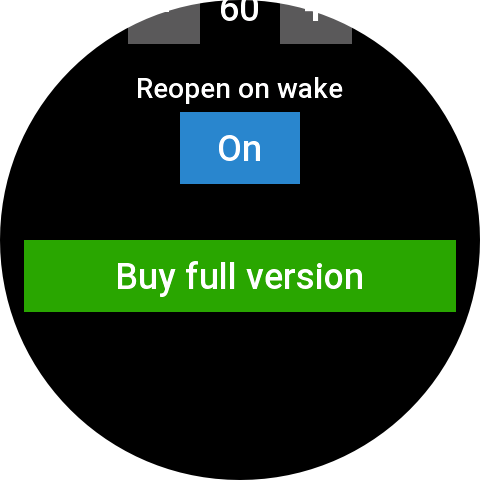
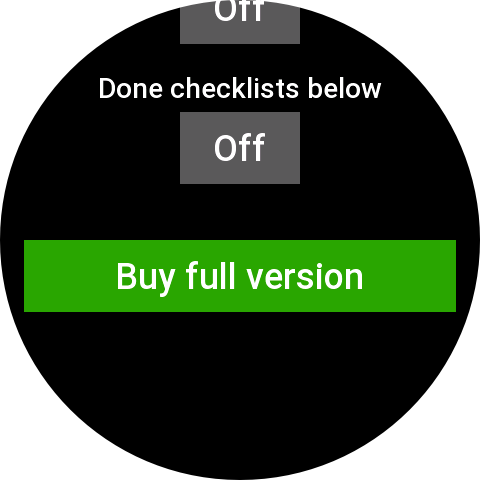
README update

diff --git a/README.md b/README.md
@@ -39,10 +39,11 @@ Typical uses:
 |------|------------------|-------|
 | Create, rename, delete checklists | ✓ | |
 | Add, edit, delete, reorder items | ✓ | |
+| Export / import checklists (JSON or CSV) | ✓ | |
 | Reorder checklists | ✓ | |
 | Check / uncheck items | | ✓ |
 | Reset all items in a list | | ✓ |
-| Adjust row height, reopen-on-wake | | ✓ |
+| Adjust row height, reopen-on-wake, done-items / done-checklists below | | ✓ |
 | Keep screen on while packing | | ✓ |
 | See recently used checklists on a widget | | ✓ (supported devices) |
 
@@ -64,7 +65,8 @@ On first install, the app includes two **sample checklists** (*Swimming pool* an
 
 The phone side is where you **build and maintain** your checklists. Open it from the Zepp app while your watch is paired.
 
-<img src="docs/screenshots/02-phone-settings-overview.jpg" alt="Phone settings — checklist editor" width="320" />
+<img src="docs/screenshots/02-phone-settings-overview-top.jpg" alt="Phone settings — checklist editor" width="320" />
+<img src="docs/screenshots/02-phone-settings-overview-bottom.jpg" alt="Phone settings — checklist editor" width="320" />
 
 ### Checklists
 
@@ -81,6 +83,45 @@ The phone side is where you **build and maintain** your checklists. Open it from
 - **Delete an item** — tap the **🗑** button; confirm or cancel.
 - **Reorder items** — use **↑** / **↓** (shown when a list has two or more items).
 - **Duplicate item names** within the same checklist are not allowed.
+
+### Backup (export / import)
+
+Use the format selector next to **Export** / **Import** to choose **JSON** or **CSV** (JSON is selected by default). Export and import always use the selected format. Backups contain checklist and item **names only** — checked/unchecked state lives on the watch and is not included.
+
+- **Export** — opens a backup of all checklists; select all, copy, and save it somewhere safe.
+- **Import** — paste a previously saved backup and tap **OK**. Existing checklists/items are merged (duplicates are skipped; new lists and items are added).
+
+**JSON** example:
+
+```json
+[
+  {
+    "name": "Swimming pool",
+    "values": [
+      { "name": "Swimsuit" },
+      { "name": "Towel" },
+      { "name": "Goggles" }
+    ]
+  },
+  {
+    "name": "Bike ride",
+    "values": [
+      { "name": "Helmet" },
+      { "name": "Water bottle" },
+      { "name": "Snacks" }
+    ]
+  }
+]
+```
+
+**CSV** — one line per checklist, no header. First field is the checklist name; the rest are items:
+
+```csv
+Swimming pool, Swimsuit, Towel, Goggles
+Bike ride, Helmet, Water bottle, Snacks
+```
+
+CSV is handy for creating lists by hand (e.g. in a notes app) and importing them.
 
 ### Validation and messages
 
@@ -106,6 +147,8 @@ When you open My Checklists on the watch, you see all your checklists as tappabl
 | **Checklist buttons** | Tap a checklist to open its items. The label includes progress (`name  done/total`). |
 | **Settings** | Opens watch-specific display and purchase options. |
 
+By default, checklists keep the order from the phone. If **Done checklists below** is enabled in watch Settings, fully completed lists appear under incomplete ones. The widget is unchanged (still recent-use order).
+
 **Stay on enabled** (blue top bar):
 
 <img src="docs/screenshots/08-watch-stay-on.png" alt="Watch main screen — Stay on enabled" width="240" />
@@ -125,7 +168,6 @@ Tap a checklist to see its items. This is where you use the list day to day.
 
 
 <img src="docs/screenshots/06-watch-deselect-all.png" alt="Watch items screen — top with Back button" width="240" />
-
 <img src="docs/screenshots/05-watch-items-active.png" alt="Watch items screen — bottom with Deselect all" width="240" />
 
 | Control | Description |
@@ -133,6 +175,8 @@ Tap a checklist to see its items. This is where you use the list day to day.
 | **Back** (top) | Return to the checklist list. |
 | **Item rows** | Tap an item to toggle it between **to pack** (red) and **done** (gray). |
 | **Deselect all** (bottom) | Resets every item in this list back to **to pack** (red) so you can reuse the list next time. |
+
+By default, items keep the order from the phone. If **Done items below** is enabled in watch Settings, **done** (gray) items always appear under **to pack** (red) ones while you check things off — phone order is unchanged.
 
 **Empty list:** If a checklist has no items, the watch shows *"No items yet."* — add items on the phone.
 
@@ -145,14 +189,16 @@ Tap a checklist to see its items. This is where you use the list day to day.
 Open **Settings** from the main watch screen.
 
 <img src="docs/screenshots/07-watch-settings-top.png" alt="Watch settings — layout controls" width="240" />
-
-<img src="docs/screenshots/07-watch-settings-bottom.png" alt="Watch settings — reopen on wake and Full version unlocked" width="240" />
+<img src="docs/screenshots/07-watch-settings-middle.png" alt="Watch settings — layout controls" width="240" />
+<img src="docs/screenshots/07-watch-settings-bottom.png" alt="Watch settings — reopen on wake, done items / checklists below, and Full version unlocked" width="240" />
 
 | Setting | Description |
 |---------|-------------|
 | **Checklist height** | Row height for checklist names on the main screen (48–96 px, step 4). Adjust if names are clipped or you want more lists on screen. |
 | **Item height** | Row height for items inside a checklist (48–96 px, step 4). |
 | **Reopen on wake** | **On** (default): when the watch screen turns back on, the app reopens where you left off. **Off**: the app closes normally when the screen sleeps. Works whether you wake the screen with a button, touch, or wrist gesture. |
+| **Done items below** | **Off** (default): items stay in phone order. **On**: **done** (gray) items are always shown below **to pack** (red) ones on the item screen. Only affects display on the watch; checklist order on the phone is unchanged. |
+| **Done checklists below** | **Off** (default): checklists stay in phone order on the main screen. **On**: fully completed lists (`done/total` where done equals total) appear below incomplete ones. Empty lists stay with incomplete. Does not change phone order or the widget’s recent-use sorting. |
 | **Buy full version** | Starts the in-app purchase flow (KiezelPay). Hidden once licensed; replaced by **Full version unlocked**. |
 
 Tap **Back** to save layout changes and return to the main screen.
@@ -206,7 +252,7 @@ My Checklists uses a **90-day free trial**, then a **one-time purchase of $2.00*
 | Items per checklist | Unlimited | Unlimited (existing lists) | Unlimited |
 | All watch features | ✓ | ✓ (existing lists on watch) | ✓ |
 
-To upgrade, open **Settings** on the watch and tap **Buy full version** (any time during or after the trial). Payment is handled via **KiezelPay**; after purchase the settings screen shows **Full version unlocked**.
+To upgrade, open **Settings** on the watch and tap **Buy full version** (any time during or after the trial).
 
 <img src="docs/screenshots/10-watch-buy-full-version.png" alt="Watch settings — Buy full version" width="240" />
 
@@ -215,6 +261,8 @@ KiezelPay then shows a payment code — enter it at [kzl.io/code](https://kzl.io
 <img src="docs/screenshots/11-watch-kpay-payment-code.png" alt="Watch — KiezelPay payment code" width="240" />
 
 If you already purchased, use [kzl.io/unlock](https://kzl.io/unlock) instead.
+
+Payment is handled via **KiezelPay**; after purchase the settings screen shows **Full version unlocked**.
 
 ---
 